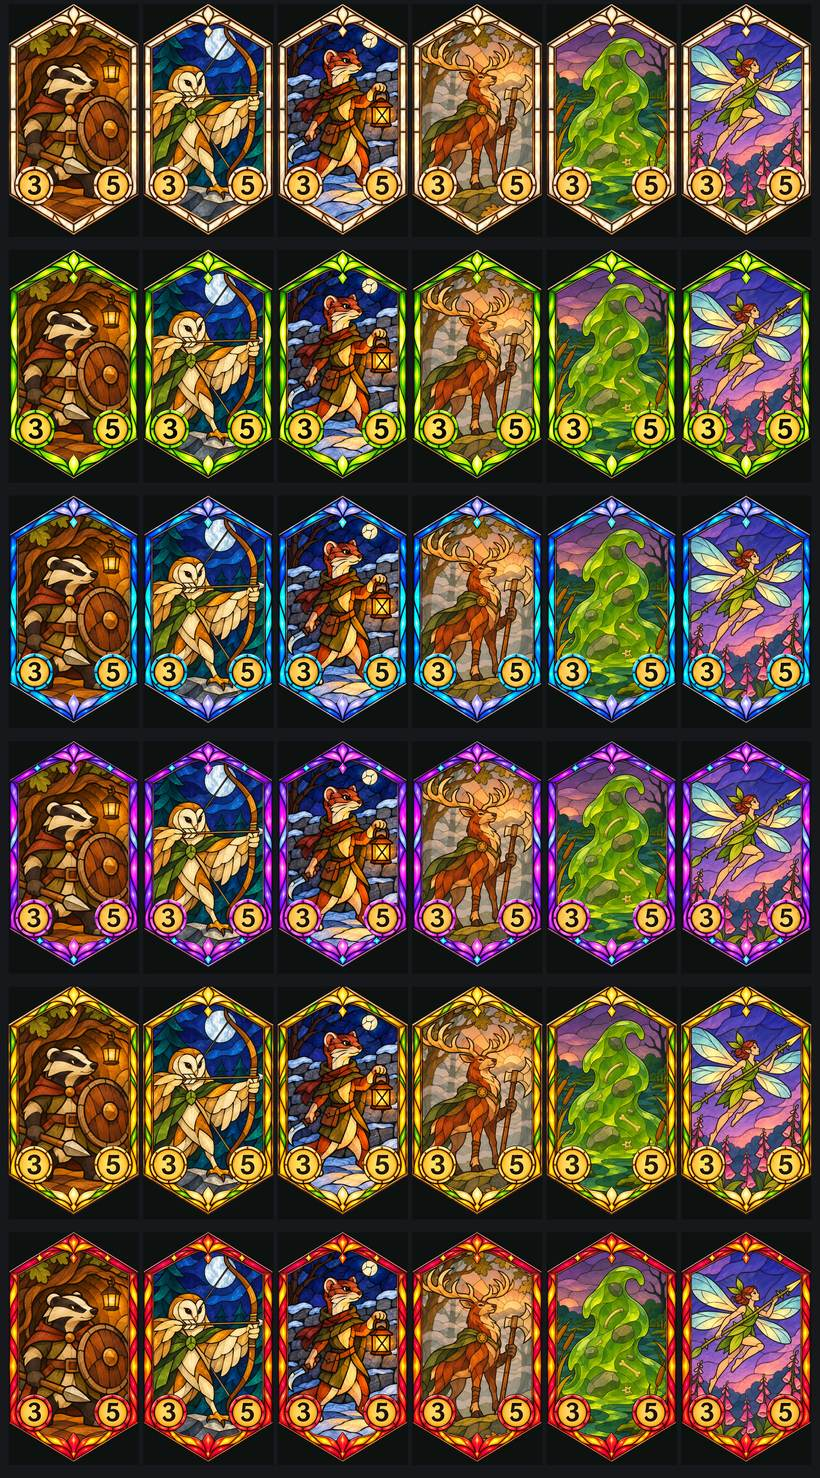
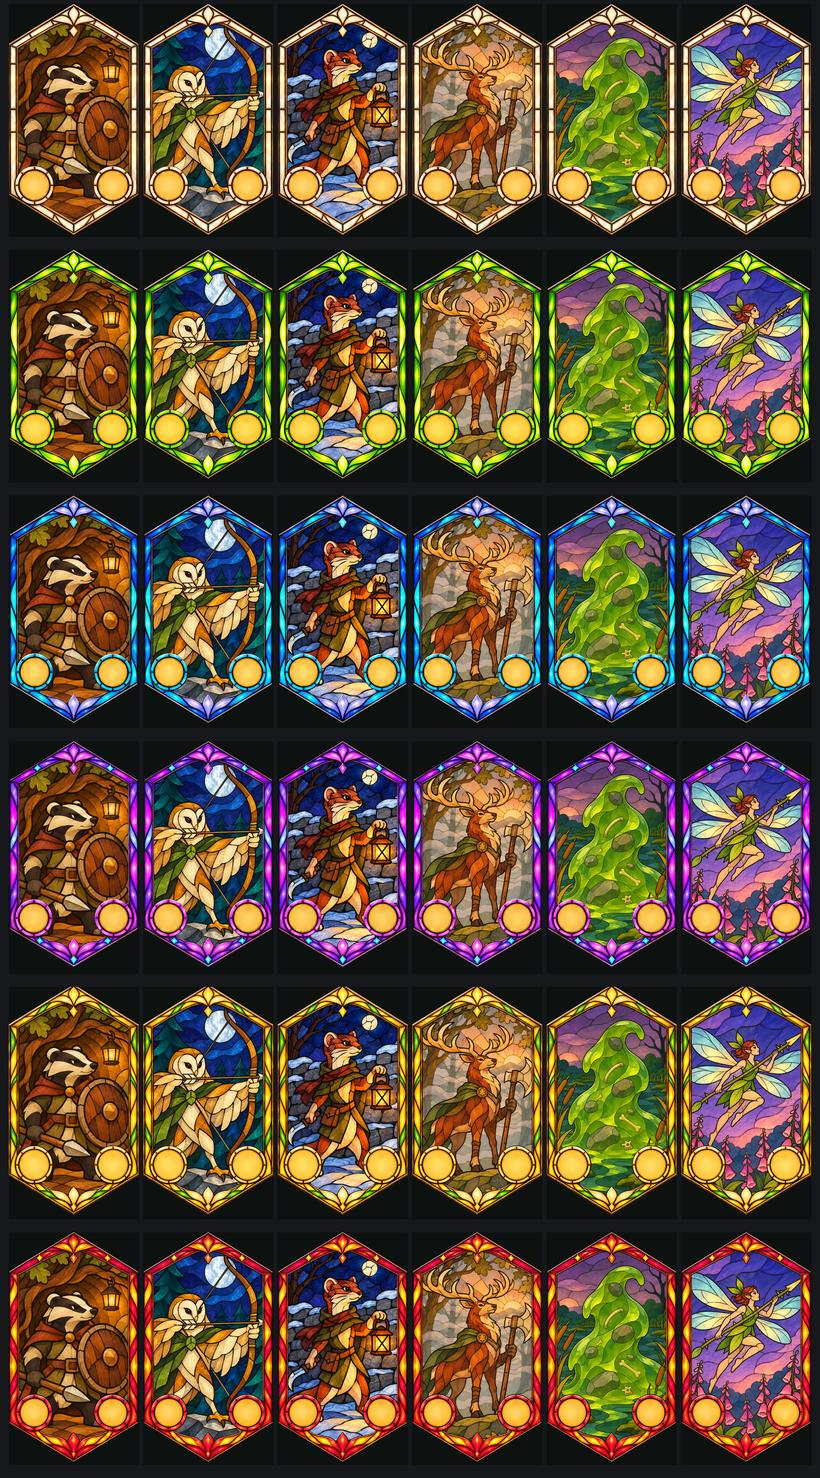
Card art recipe: number-free frames
The frames no longer have a 3 and a 5 painted on the roundels (card frames
session, owner's ask, 15 Nov). The windows are unchanged, so the guide and the
check are too. Examples rebuilt; the recipe points to roundels.json for where
the game draws Attack and Health.

diff --git a/docs/design/art-direction/card-art-recipe.md b/docs/design/art-direction/card-art-recipe.md
@@ -42,7 +42,7 @@ One line of agent wording is also out of date and is updated with this recipe: [
 | Prompt | `tools/art/prompts/glass-art-window.txt` | The loose wording plus the list of subjects. |
 | Runner | `tools/art/run-codex-image.ps1` | Runs one batch through Codex with the guide attached. |
 | Check and assembly | `tools/art/glass-art/assemble.py` | Measures each picture against the guide and builds the cards. |
-| Frames | [frame-lab/final/](frame-lab/final/) | Six tier frames in card space, 1120 × 2000, window clear. The thin set the owner locked on 15 November, redrawn sharper the same day (the owner, relayed by the card frames session: "Yes, i approve"). |
+| Frames | [frame-lab/final/](frame-lab/final/) | Six tier frames in card space, 1120 × 2000, window clear, roundels empty. The thin set the owner locked on 15 November, redrawn sharper the same day (the owner, relayed by the card frames session: "Yes, i approve"). |
 
 The art window is the window of the outline the thin frames were drawn to (the frames the owner locked on 15 November, after finding the first set, in words relayed by the card frames session, "too busy now that I see them on screen. We need to reduce the width"). The frames' own windows are close to it: 1.6 to 3.3 card units inside it on five tiers, and up to 5.2 units past it on tier 5's two upper sloping edges. So the guide adds 12 units on every side, which puts the art under the border everywhere: by 6.8 units on tier 5's upper sloping edges and 13.6 or more on the other tiers. Codex returns the panel within about 7 pixels (5 units) of the guide, sometimes smaller and sometimes larger. 12 is close to the most there is room for: at about 13 the art starts to show past the frame's outer edge on tiers 3 and 4, near the lower-left corner. These figures were measured on the frames as they are now. Measure again whenever the frame files change: a small change to a frame's edge can use up the room that is left. The card sits on Codex's canvas at 1.44 times spec size with its top-left corner at (108.8, 48). The card frames session said on 15 November that it would use the same placement for its own outline guides; that has not been checked against its files.
 
@@ -104,7 +104,7 @@ The full sets are on the Optiplex under `/data/bramble-art/stained-glass/` (`loo
 
 - **The card shape and window** are a working spec (above).
 - **Tier 5 has the least room.** Its window is the only one that reaches past the art window, so a picture that comes back small shows there first. The check's 9-pixel limit is set by it.
-- **Attack and Health are painted into the frames** for now. In the game they will be live numbers on the roundels.
+- **The roundels are empty.** The frames carry no numbers; the game draws Attack on the left disc and Health on the right. Each tier's disc centres and sizes are in [frame-lab/final/roundels.json](frame-lab/final/roundels.json). `assemble.py` does not draw numbers, so assembled cards show empty discs.
 - **The roundels cover the lower corners.** Feet and tails often sit behind them. The two discs could be added to the guide so Codex keeps clear of them.
 - **The top accent covers the middle of the window's top edge on every tier.** A small diamond hangs down to about 15% of the card's height at the centre. Something placed at the very top centre of a picture sits behind it. At the bottom point, tiers 2 to 6 have an accent too: down the centre their windows end at about 85 to 88% of the card's height, where tier 1's runs to 93.5%.
 - **A large set has not been made.** The most made to one guide is 24, in two runs of 12. Colour strength varies a little between runs, and that may show across a hundred cards.
